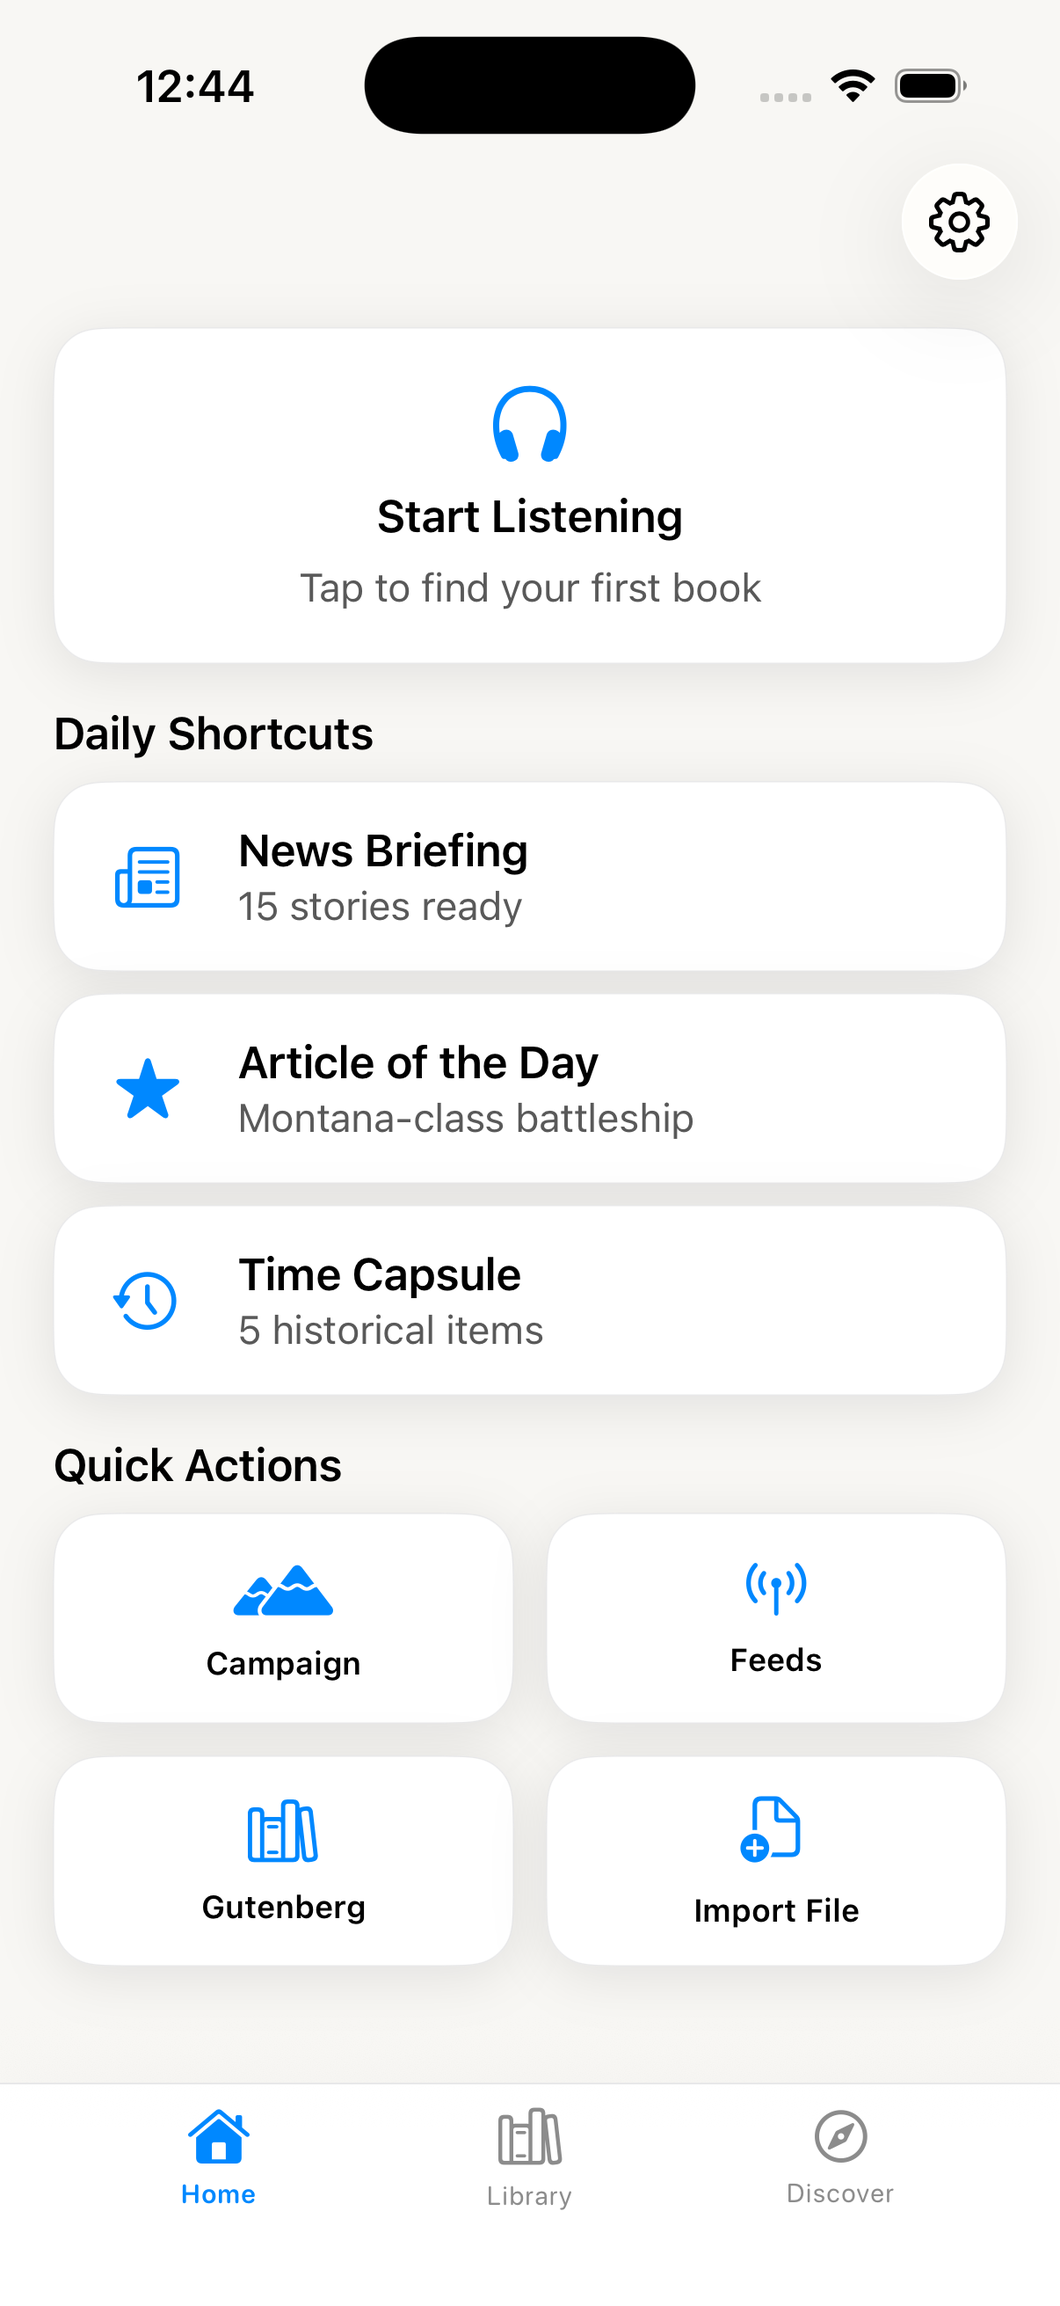
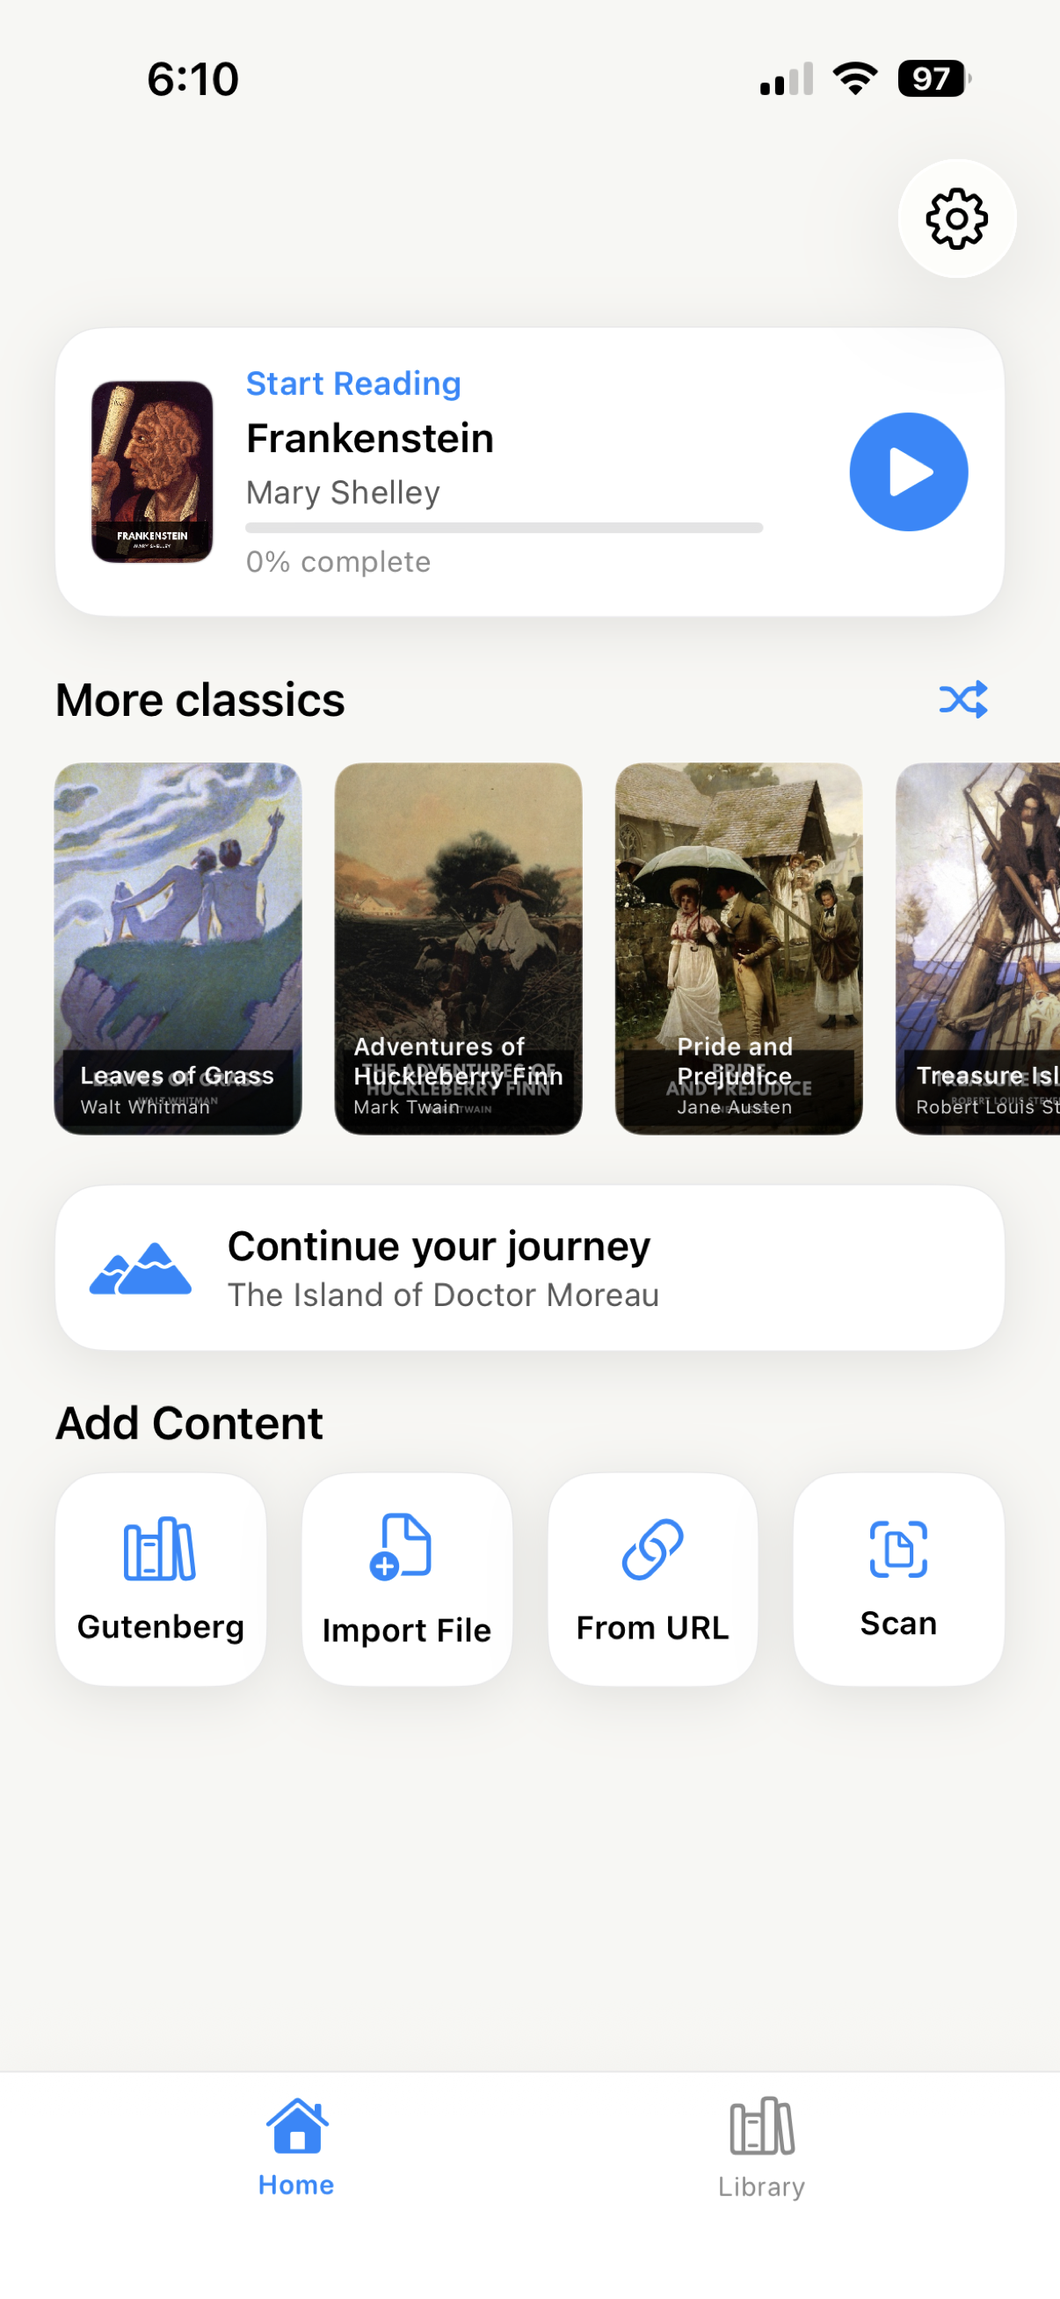
content: rework landing for free-forever model + trim cut features
- Hero: lead with a Free forever / No limits / No quotas badge; natural-voices subhead
- Pricing: unlimited free listening, 8h all-voices trial, $7.99/mo · $49.99/yr · $199.99 lifetime
- Discover: refocus on classics + campaigns; drop News, Wikipedia, Time Capsule, saved articles
- FAQ/Support/Terms/metadata: align copy + pricing with the new model
- Screens: fresh home (light/dark), campaign, dark reader with sync highlight; remove cut-feature shots

diff --git a/app/page.tsx b/app/page.tsx
@@ -61,18 +61,16 @@ const blurMap: Record<string, string> = {
[19 lines of base64/hex data omitted]
 };
 
 /* ─── Interactive Phone with tilt + hover crossfade ─── */
@@ -259,7 +257,16 @@ export default function Home() {
           <div className="relative z-10 max-w-6xl mx-auto w-full flex flex-col lg:flex-row items-center gap-12 lg:gap-20 py-20">
             <div className="flex-1 text-center lg:text-left">
               <div className="animate-fade-in-up">
-                <Image src="/logo2.png" alt="LoudReader" width={56} height={56} className="mx-auto lg:mx-0 mb-8 drop-shadow-md" priority />
+                <Image src="/logo2.png" alt="LoudReader" width={56} height={56} className="mx-auto lg:mx-0 mb-6 drop-shadow-md" priority />
+              </div>
+              <div className="animate-fade-in-up mb-6 flex justify-center lg:justify-start">
+                <span className="inline-flex items-center gap-2 rounded-full bg-loudBlue/10 border border-loudBlue/20 px-3.5 py-1.5 text-[13px] font-semibold tracking-wide text-loudBlue">
+                  <span className="relative flex h-2 w-2">
+                    <span className="absolute inline-flex h-full w-full animate-ping rounded-full bg-loudBlue opacity-60" />
+                    <span className="relative inline-flex h-2 w-2 rounded-full bg-loudBlue" />
+                  </span>
+                  Free forever &middot; No limits &middot; No quotas
+                </span>
               </div>
               <h1
                 className="animate-fade-in-up delay-100 text-5xl sm:text-6xl md:text-7xl font-bold tracking-tighter leading-[0.95] mb-6 transition-colors duration-[1200ms]"
@@ -271,7 +278,7 @@ export default function Home() {
                 className="animate-fade-in-up delay-200 text-lg md:text-xl max-w-md mx-auto lg:mx-0 mb-10 leading-relaxed transition-colors duration-[1200ms]"
                 style={{ color: heroDimmed ? "rgba(255,255,255,0.5)" : "#9ca3af" }}
               >
-                Beautiful AI voices read your books aloud, with every word highlighted in sync. Fully private, completely offline.
+                Natural AI voices read any book aloud, every word highlighted in sync. Listen as much as you want &mdash; no limits, no quotas, no account. Fully private, completely offline.
               </p>
               <div className="animate-fade-in-up delay-300 flex flex-col items-center lg:items-start gap-4">
                 <AppStoreButton dark={heroDimmed} />
@@ -279,7 +286,7 @@ export default function Home() {
                   className="text-[13px] tracking-wide transition-colors duration-[1200ms]"
                   style={{ color: heroDimmed ? "rgba(255,255,255,0.3)" : "#9ca3af" }}
                 >
-                  Your first book is on us &middot; Offline &middot; Private
+                  Unlimited listening, free &middot; Offline &middot; Private
                 </p>
               </div>
             </div>
@@ -419,18 +426,16 @@ export default function Home() {
           <div ref={s5.ref} className={`${reveal(s5)} max-w-6xl mx-auto px-6 py-24 md:py-36`}>
             <div className="text-center mb-16">
               <h2 className="text-4xl md:text-5xl lg:text-6xl font-bold tracking-tight text-white mb-5 leading-[1.05]">
-                Something new, every day.
+                Never short of<br />something to read.
               </h2>
               <p className="text-lg text-gray-500 max-w-lg mx-auto leading-relaxed">
-                Daily news. Wikipedia&apos;s article of the day. Over 100 free curated classics through reading campaigns. Save articles from the web.
+                Over 100 hand-picked classics, grouped into themed reading campaigns. Pull to shuffle the shelf and find your next book. All free, all offline.
               </p>
             </div>
             <div className="flex justify-center items-end gap-3 md:gap-5">
-              <Phone src="/screen-home.png" alt="Home tab" size="sm" light className="hidden lg:block opacity-50 -rotate-2 translate-y-4" delay={0.2} tilt={false} onClick={() => setLightbox("/screen-home.png")} />
-              <Phone src="/screen-news.png" alt="News briefing" size="sm" light className="opacity-70 -rotate-1" delay={0.1} tilt={false} onClick={() => setLightbox("/screen-news.png")} />
+              <Phone src="/screen-home-dark.png" alt="Home with classics shelf" size="sm" light className="opacity-70 -rotate-1" delay={0.1} tilt={false} onClick={() => setLightbox("/screen-home-dark.png")} />
               <Phone src="/screen-campaign.png" alt="Reading campaign" delay={0} onClick={() => setLightbox("/screen-campaign.png")} />
-              <Phone src="/screen-saved-articles.png" alt="Saved articles" size="sm" light className="opacity-70 rotate-1" delay={0.1} tilt={false} onClick={() => setLightbox("/screen-saved-articles.png")} />
-              <Phone src="/screen-timecapsule.png" alt="Time Capsule" size="sm" light className="hidden lg:block opacity-50 rotate-2 translate-y-4" delay={0.2} tilt={false} onClick={() => setLightbox("/screen-timecapsule.png")} />
+              <Phone src="/screen-home.png" alt="Home tab" size="sm" light className="opacity-70 rotate-1" delay={0.1} tilt={false} onClick={() => setLightbox("/screen-home.png")} />
             </div>
           </div>
         </section>
@@ -467,10 +472,10 @@ export default function Home() {
         <section className="w-full bg-[#f7f5f2] overflow-hidden" style={{ contentVisibility: "auto" }}>
           <div className="max-w-4xl mx-auto px-6 py-24 md:py-32">
             <h2 className="text-3xl md:text-4xl font-bold tracking-tight text-gray-900 text-center mb-4">
-              Start free. Go further.
+              Free forever. Go further.
             </h2>
             <p className="text-lg text-gray-400 text-center mb-16 max-w-md mx-auto">
-              Your first book is completely free, cover to cover. No time limits.
+              Every book, cover to cover, with no time limit &mdash; free, always. Upgrade only when you want more.
             </p>
 
             <div className="grid md:grid-cols-2 gap-6">
@@ -479,12 +484,11 @@ export default function Home() {
                 <p className="text-2xl font-bold text-gray-900 mt-2 mb-1">$0</p>
                 <p className="text-sm text-gray-400 mb-6">No account needed</p>
                 <ul className="space-y-3 text-[15px] text-gray-500">
-                  <li className="flex items-start gap-3"><span className="text-loudBlue mt-0.5">&#10003;</span><span>First book fully unlocked</span></li>
-                  <li className="flex items-start gap-3"><span className="text-loudBlue mt-0.5">&#10003;</span><span>Up to 5 books in your library</span></li>
-                  <li className="flex items-start gap-3"><span className="text-loudBlue mt-0.5">&#10003;</span><span>Two AI voices included</span></li>
-                  <li className="flex items-start gap-3"><span className="text-loudBlue mt-0.5">&#10003;</span><span>Daily news, Wikipedia, Time Capsule</span></li>
+                  <li className="flex items-start gap-3"><span className="text-loudBlue mt-0.5">&#10003;</span><span>Unlimited listening, cover to cover</span></li>
+                  <li className="flex items-start gap-3"><span className="text-loudBlue mt-0.5">&#10003;</span><span>Unlimited library &mdash; import all you like</span></li>
+                  <li className="flex items-start gap-3"><span className="text-loudBlue mt-0.5">&#10003;</span><span>Every voice free for your first 8 hours</span></li>
                   <li className="flex items-start gap-3"><span className="text-loudBlue mt-0.5">&#10003;</span><span>100+ curated classics via Campaigns</span></li>
-                  <li className="flex items-start gap-3"><span className="text-loudBlue mt-0.5">&#10003;</span><span>Night mode, sleep timer, chapters</span></li>
+                  <li className="flex items-start gap-3"><span className="text-loudBlue mt-0.5">&#10003;</span><span>Night mode, chapters, background play</span></li>
                 </ul>
               </div>
 
@@ -493,15 +497,15 @@ export default function Home() {
                   <span className="text-[11px] font-medium text-loudBlue bg-loudBlue/10 px-2.5 py-1 rounded-full">Recommended</span>
                 </div>
                 <h3 className="text-lg font-semibold text-gray-900 mb-1">Premium</h3>
-                <p className="text-2xl font-bold text-gray-900 mt-2 mb-1">$5.99<span className="text-sm font-normal text-gray-400">/month</span></p>
-                <p className="text-sm text-gray-400 mb-6">First month free. Cancel anytime.</p>
+                <p className="text-2xl font-bold text-gray-900 mt-2 mb-1">$7.99<span className="text-sm font-normal text-gray-400">/month</span></p>
+                <p className="text-sm text-gray-400 mb-1">First month free. Cancel anytime.</p>
+                <p className="text-[13px] text-gray-400 mb-6">or $49.99/year &middot; $199.99 once, yours for life</p>
                 <ul className="space-y-3 text-[15px] text-gray-500">
-                  <li className="flex items-start gap-3"><span className="text-loudBlue mt-0.5">&#10003;</span><span>Every book, cover to cover</span></li>
-                  <li className="flex items-start gap-3"><span className="text-loudBlue mt-0.5">&#10003;</span><span>Unlimited library</span></li>
-                  <li className="flex items-start gap-3"><span className="text-loudBlue mt-0.5">&#10003;</span><span>All 8 premium voices</span></li>
+                  <li className="flex items-start gap-3"><span className="text-loudBlue mt-0.5">&#10003;</span><span>All 8 AI voices, for good</span></li>
                   <li className="flex items-start gap-3"><span className="text-loudBlue mt-0.5">&#10003;</span><span>Variable speed (0.3x to 3.0x)</span></li>
-                  <li className="flex items-start gap-3"><span className="text-loudBlue mt-0.5">&#10003;</span><span>Notes, highlights, reading styles</span></li>
-                  <li className="flex items-start gap-3"><span className="text-loudBlue mt-0.5">&#10003;</span><span>Unlimited articles and imports</span></li>
+                  <li className="flex items-start gap-3"><span className="text-loudBlue mt-0.5">&#10003;</span><span>Sleep timer to drift off to</span></li>
+                  <li className="flex items-start gap-3"><span className="text-loudBlue mt-0.5">&#10003;</span><span>Ambient soundscapes</span></li>
+                  <li className="flex items-start gap-3"><span className="text-loudBlue mt-0.5">&#10003;</span><span>Notes, highlights &amp; reading styles</span></li>
                 </ul>
               </div>
             </div>
@@ -520,7 +524,7 @@ export default function Home() {
             <div className="flex flex-col items-center gap-4">
               <AppStoreButton dark />
               <p className="text-[13px] text-gray-600 tracking-wide">
-                Free to try &middot; Offline &middot; Private
+                Free forever &middot; Offline &middot; Private
               </p>
             </div>
           </div>

diff --git a/app/terms/page.tsx b/app/terms/page.tsx
@@ -60,16 +60,17 @@ export default function TermsPage() {
             <section>
               <h2 className="text-2xl font-bold text-gray-900 mb-4">3. Subscription Terms</h2>
               <p className="mb-4">
-                LoudReader offers premium features through auto-renewable subscriptions:
+                LoudReader offers premium features through auto-renewable subscriptions, or as a one-time Lifetime purchase:
               </p>
               <ul className="list-disc pl-6 space-y-2 mb-4">
-                <li><strong>Monthly Subscription:</strong> $4.99 USD per month</li>
-                <li><strong>Annual Subscription:</strong> $39.99 USD per year</li>
+                <li><strong>Monthly Subscription:</strong> $7.99 USD per month</li>
+                <li><strong>Annual Subscription:</strong> $49.99 USD per year</li>
+                <li><strong>Lifetime:</strong> $199.99 USD, one-time — a non-consumable purchase that unlocks Premium permanently and does not renew</li>
               </ul>
 
               <h3 className="text-xl font-semibold text-gray-900 mt-6 mb-3">Free Trial</h3>
               <p>
-                New subscribers are eligible for a 1-month free trial. The free trial provides full access to all premium features. After the trial period ends, your subscription will automatically renew at the regular subscription price unless cancelled.
+                New subscribers are eligible for a 1-month free trial. The free trial provides full access to all premium features. After the trial period ends, your subscription will automatically renew at the regular subscription price unless cancelled. The Lifetime purchase is a single payment and is not part of the free-trial or auto-renewal terms.
               </p>
 
               <h3 className="text-xl font-semibold text-gray-900 mt-6 mb-3">Billing</h3>
@@ -89,12 +90,13 @@ export default function TermsPage() {
             <section>
               <h2 className="text-2xl font-bold text-gray-900 mb-4">4. Free Features</h2>
               <p>
-                Without a subscription, you may use LoudReader with the following limitations:
+                Without a subscription, you may use LoudReader with the following included at no cost:
               </p>
               <ul className="list-disc pl-6 space-y-2">
-                <li>Up to 3 books in your library</li>
-                <li>Access to about 50% of each book (one boosted book up to 70%)</li>
-                <li>Default voice and standard playback speed (1.0x)</li>
+                <li>Unlimited listening — every book playable cover to cover</li>
+                <li>An unlimited library — import as many books as you like</li>
+                <li>Every voice free for your first 8 hours of listening; the default voice thereafter</li>
+                <li>Standard playback speed (1.0x)</li>
               </ul>
             </section>
 
@@ -104,10 +106,10 @@ export default function TermsPage() {
                 With an active subscription, you gain access to:
               </p>
               <ul className="list-disc pl-6 space-y-2">
-                <li>Unlimited books in your library</li>
-                <li>Full access to all chapters</li>
-                <li>All available voices</li>
+                <li>All available voices, kept unlocked after the free 8-hour trial</li>
                 <li>Adjustable playback speed (0.3x to 3.0x)</li>
+                <li>Sleep timer</li>
+                <li>Ambient soundscapes</li>
                 <li>Notes and highlights</li>
                 <li>Reading style customization</li>
                 <li>Background audio precaching</li>

diff --git a/app/faq/page.tsx b/app/faq/page.tsx
@@ -36,7 +36,7 @@ const faqs = [
       },
       {
         q: "Which voices are available?",
-        a: "Free users get the default voice at standard speed. Premium unlocks all available voices and adjustable playback speed from 0.3x to 3.0x. Currently English only - more languages are coming.",
+        a: "Every voice is free to try for your first 8 hours of listening. After that, free users keep the default voice, while Premium keeps all voices unlocked for good — plus adjustable playback speed from 0.3x to 3.0x. Currently English only - more languages are coming.",
       },
       {
         q: "Does it work without internet?",
@@ -49,11 +49,11 @@ const faqs = [
     questions: [
       {
         q: "What do I get for free?",
-        a: "Everything you need to get started: import your own books, browse the full Project Gutenberg library, listen with the default voice, and use word-by-word highlighting. Free, forever.",
+        a: "A lot. Unlimited listening on every book cover to cover, an unlimited library, word-by-word highlighting, the full Project Gutenberg catalog, 100+ curated classics, and every voice free for your first 8 hours. No account, no time limit. Free, forever.",
       },
       {
         q: "What does Premium add?",
-        a: "Premium unlocks all AI voices, adjustable playback speed (0.3x–3.0x), sleep timer, and notes & highlights. It's a subscription managed through Apple.",
+        a: "Premium keeps all AI voices unlocked after the free trial, and adds adjustable playback speed (0.3x–3.0x), a sleep timer, ambient soundscapes, and notes & highlights. Available monthly, yearly, or as a one-time Lifetime purchase through Apple.",
       },
       {
         q: "How do I manage or cancel my subscription?",

diff --git a/app/support/page.tsx b/app/support/page.tsx
@@ -73,7 +73,7 @@ export default function SupportPage() {
                 <div>
                   <h3 className="text-lg font-semibold text-gray-900 mb-2">Which voices are available?</h3>
                   <p>
-                    LoudReader offers multiple natural-sounding AI voices. Free users get the default voice at standard speed. Premium subscribers unlock all available voices and adjustable playback speed from 0.3x to 3.0x. Currently only English is supported, but we&apos;re working on adding more languages.
+                    LoudReader offers eight natural-sounding AI voices. Every voice is free to try for your first 8 hours of listening — after that, free users keep the default voice, while Premium keeps them all unlocked plus adjustable playback speed from 0.3x to 3.0x. Currently only English is supported, but we&apos;re working on adding more languages.
                   </p>
                 </div>
 

diff --git a/app/layout.tsx b/app/layout.tsx
@@ -17,7 +17,7 @@ const spaceGrotesk = Space_Grotesk({
 
 export const metadata: Metadata = {
   title: "LoudReader - Every text is an audiobook.",
-  description: "Beautiful AI voices read your books aloud with word-by-word highlighting. Import any EPUB or PDF, or browse 70,000+ free classics. Completely offline and private.",
+  description: "Natural AI voices read any book aloud with word-by-word highlighting. Unlimited listening, free — no limits, no quotas, no account. Import any EPUB or PDF, or browse 70,000+ free classics. Completely offline and private.",
   icons: {
     icon: [
       { url: '/favicon-16x16.png', sizes: '16x16', type: 'image/png' },

diff --git a/app/releases/page.tsx b/app/releases/page.tsx
@@ -5,6 +5,19 @@ import Link from "next/link";
 
 const releases = [
   {
+    version: "1.1",
+    date: "July 2026",
+    title: "Free, forever",
+    changes: [
+      "Unlimited listening — every book now plays cover to cover, free",
+      "Unlimited library — import as many books as you like",
+      "Every voice free for your first 8 hours of listening",
+      "New one-time Lifetime purchase option",
+      "Faster, more natural on-device narration",
+      "A cleaner, books-first home screen",
+    ],
+  },
+  {
     version: "1.0",
     date: "February 2026",
     title: "Hello, world",
